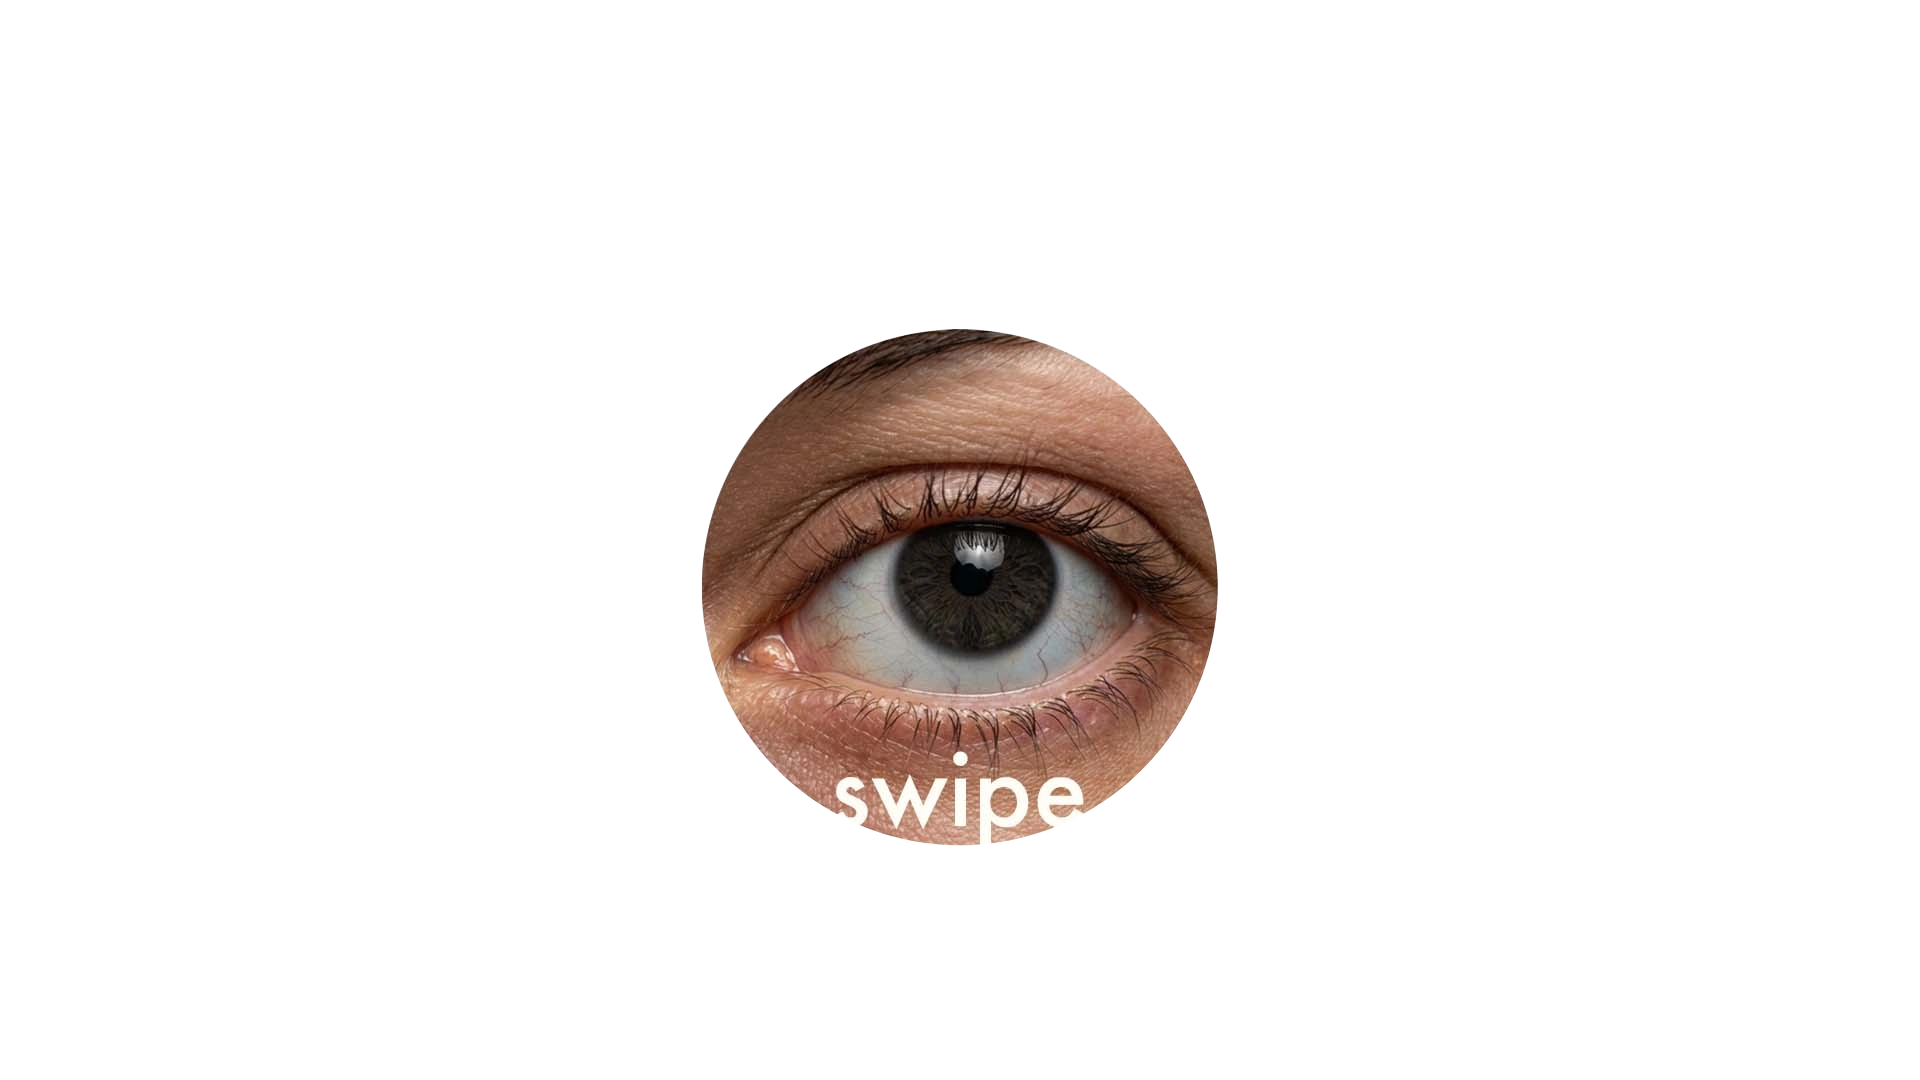
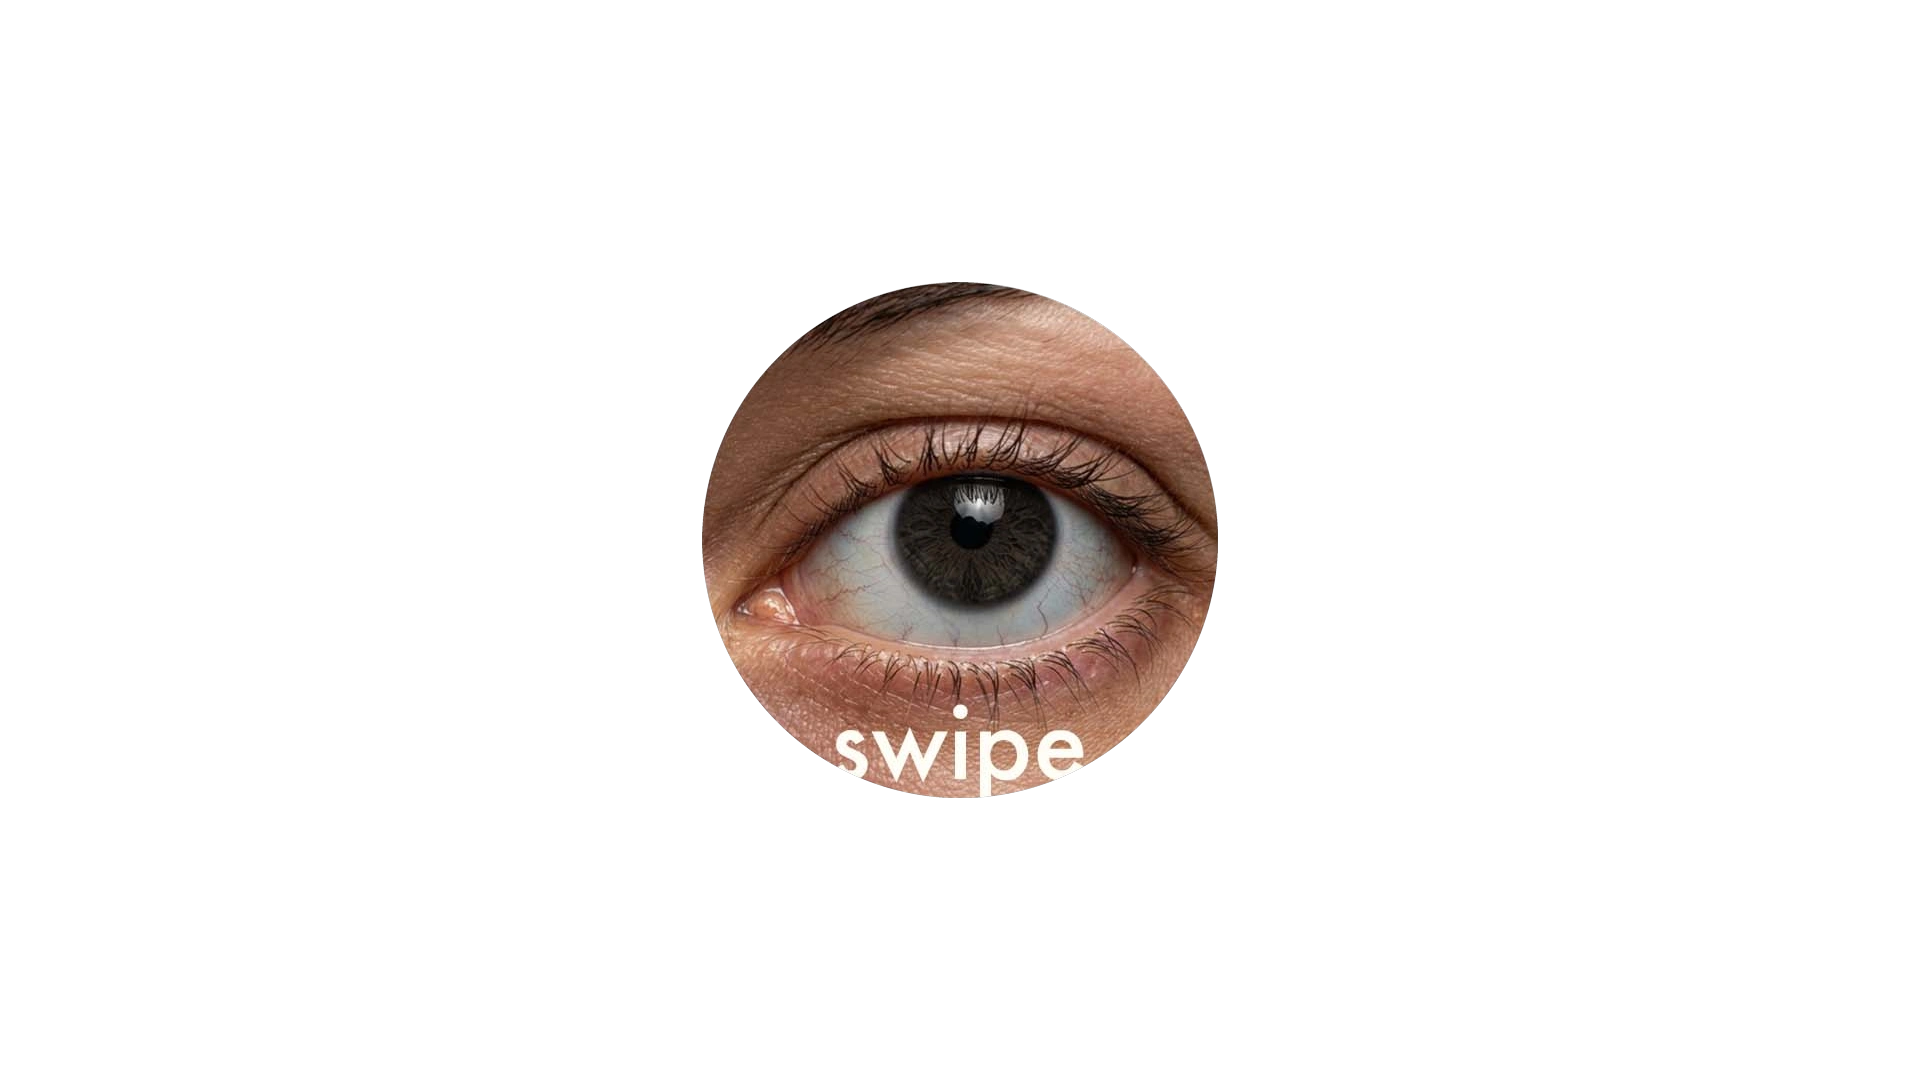
feat: center eye and marquee at exact 50% vertical center and scale footer text 1.5x

Changed region(s): [[0.3438, 0.2444, 0.6562, 0.7944]]

diff --git a/src/components/IntroSequence/IntroSequence.css b/src/components/IntroSequence/IntroSequence.css
@@ -41,7 +41,7 @@
 /* ========== INFINITE CAROUSEL MARQUEE (PORTFOLIO) ========== */
 .intro__marquee {
   position: absolute;
-  top: 54.35%;
+  top: 50%;
   left: 0;
   width: 100%;
   transform: translateY(-50%);
@@ -102,72 +102,17 @@
   pointer-events: none;
 }
 
-/* ========== TEXT — Pure Black Typography ========== */
-.intro__text {
-  position: absolute;
-  z-index: 10;
-  top: clamp(20px, 6vh, 60px);
-  left: 50%;
-  transform: translateX(-50%) translateY(0) scale(1);
-  transform-origin: center center;
-  text-align: center;
-  width: max-content;
-  max-width: 95vw;
-  opacity: 0;
-  animation: introTextIn 0.8s var(--ease-out) 0.15s both;
-  will-change: transform, opacity;
-  pointer-events: none;
-}
-
-@keyframes introTextIn {
-  from {
-    opacity: 0;
-    transform: translateX(-50%) translateY(15px);
-  }
-  to {
-    opacity: 1;
-    transform: translateX(-50%) translateY(0);
-  }
-}
-
-.intro__heading {
-  font-family: var(--font-display);
-  font-size: clamp(2.4rem, 5.8vw, 5.2rem);
-  font-weight: 700;
-  line-height: 1;
-  letter-spacing: -0.03em;
-  color: #000000;
-  white-space: nowrap;
-  text-shadow: none;
-}
-
-.intro__subheading {
-  font-family: var(--font-body);
-  font-size: clamp(0.72rem, 1.1vw, 1rem);
-  font-weight: 600;
-  letter-spacing: 0.38em;
-  color: rgba(0, 0, 0, 0.82);
-  margin-top: 12px;
-  text-transform: uppercase;
-}
-
-.intro--zoom-out .intro__text {
-  opacity: 0;
-  transform: translateX(-50%) scale(0.92);
-  transition: opacity 0.35s ease, transform 0.65s cubic-bezier(0.16, 1, 0.3, 1);
-}
-
-/* ========== FOOTER — Black Typography ========== */
+/* ========== FOOTER — Rodrigo Santos Creative Direction (1.5x larger) ========== */
 .intro__footer {
   position: absolute;
-  bottom: 32px;
+  bottom: clamp(32px, 5vh, 60px);
   left: 50%;
   transform: translateX(-50%) translateY(0);
   transform-origin: center center;
   z-index: 10;
   text-align: center;
   opacity: 0;
-  animation: introFooterIn 0.8s var(--ease-out) 0.4s both;
+  animation: introFooterIn 0.8s var(--ease-out) 0.3s both;
   pointer-events: none;
   will-change: transform, opacity;
 }
@@ -185,9 +130,9 @@
 
 .intro__footer-text {
   font-family: var(--font-body);
-  font-size: clamp(0.7rem, 0.88vw, 0.84rem);
+  font-size: clamp(1.05rem, 1.35vw, 1.35rem);
   letter-spacing: 0.22em;
-  color: rgba(0, 0, 0, 0.72);
+  color: rgba(0, 0, 0, 0.85);
   white-space: nowrap;
   text-shadow: none;
   display: inline-flex;
@@ -195,13 +140,13 @@
 }
 
 .intro__footer-name {
-  font-weight: 400;
+  font-weight: 500;
   letter-spacing: 0.18em;
 }
 
 .intro__footer-sep {
   opacity: 0.5;
-  margin: 0 4px;
+  margin: 0 6px;
   font-weight: 300;
 }
 
@@ -218,7 +163,7 @@
 /* ========== CENTER PHOTO TRIGGER (CLICK ON EYE) ========== */
 .intro__center-trigger {
   position: absolute;
-  top: 54.35%;
+  top: 50%;
   left: 50%;
   transform: translate(-50%, -50%);
   width: min(54vh, 54vw, 530px);
@@ -247,29 +192,16 @@
 
 /* ========== MOBILE ADAPTATION ========== */
 @media (max-width: 900px) {
-  .intro__text {
-    top: clamp(16px, 4.5vh, 40px);
-    width: 94vw;
-    max-width: 94vw;
-  }
-
-  .intro__heading {
-    font-size: clamp(1.4rem, 6.4vw, 3.2rem);
-    white-space: nowrap;
-    line-height: 1.1;
-  }
-
-  .intro__subheading {
-    font-size: clamp(0.7rem, 2.8vw, 0.85rem);
-    letter-spacing: 0.28em;
-  }
-
   .intro__center-trigger {
     width: min(65vh, 78vw, 420px);
     height: min(65vh, 78vw, 420px);
   }
 
   .intro__footer {
-    bottom: 24px;
+    bottom: clamp(24px, 4vh, 40px);
+  }
+
+  .intro__footer-text {
+    font-size: clamp(0.95rem, 3.2vw, 1.18rem);
   }
 }
